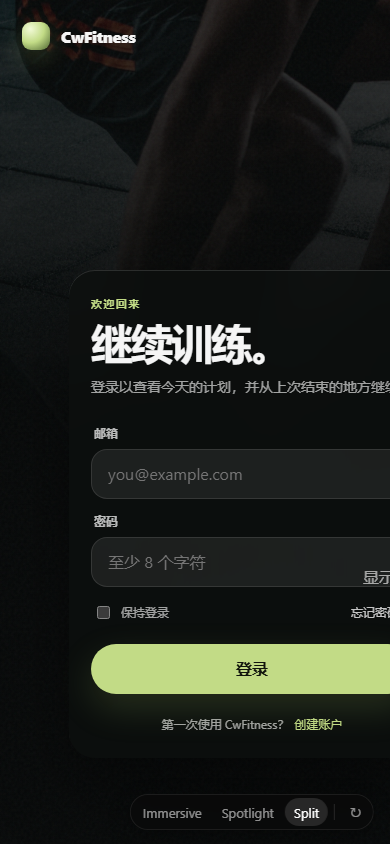
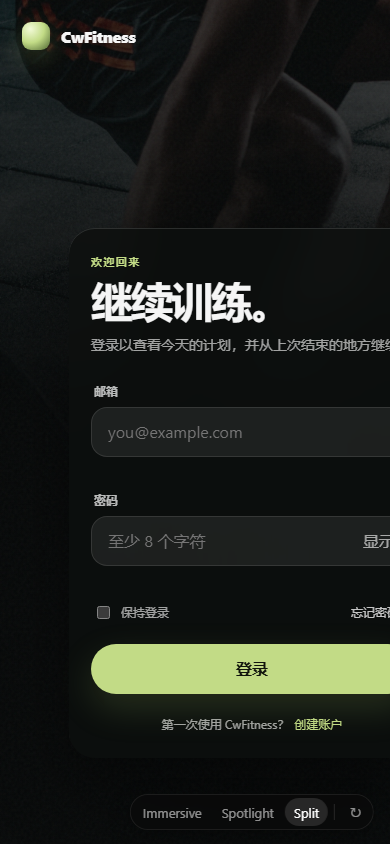
prototype: refine split login layout

diff --git a/prototypes/cwfitness-login/index.html b/prototypes/cwfitness-login/index.html
@@ -15,12 +15,12 @@
     .auth{width:min(420px,calc(100vw - 40px));padding:34px;border-radius:32px;animation:panel-arrive 520ms var(--ease) 80ms both;transform-origin:center}
     @keyframes panel-arrive{from{opacity:0;transform:translateY(16px) scale(.975)}to{opacity:1;transform:none}}
     .eyebrow{margin:0 0 10px;color:var(--accent);font-size:11px;font-weight:800;letter-spacing:.13em;text-transform:uppercase}.auth h1{margin:0;font-size:clamp(34px,4vw,48px);line-height:1;letter-spacing:-.048em}.intro{margin:13px 0 27px;color:var(--muted);font-size:14px;line-height:1.55}
-    .field{display:block;margin-top:14px}.field-label{display:block;margin:0 0 8px 3px;color:rgba(255,255,255,.72);font-size:12px;font-weight:680}.input-wrap{position:relative}.input-wrap input{width:100%;height:50px;border:1px solid rgba(255,255,255,.11);border-radius:16px;padding:0 16px;color:var(--text);background:rgba(255,255,255,.075);outline:none;transition:border-color 160ms ease-out,background-color 160ms ease-out,box-shadow 160ms ease-out}.input-wrap input:hover{background:rgba(255,255,255,.095)}.input-wrap input:focus{border-color:rgba(194,219,134,.62);box-shadow:0 0 0 4px rgba(194,219,134,.1)}.input-wrap input[aria-invalid="true"]{border-color:rgba(233,160,149,.72)}.reveal{position:absolute;right:8px;top:7px;height:36px;padding:0 10px;border:0;border-radius:11px;background:transparent;color:var(--muted);cursor:pointer}.reveal:hover{background:rgba(255,255,255,.08);color:#fff}
+    .field{display:block;margin-top:14px}.field-label{display:block;margin:0 0 8px 3px;color:rgba(255,255,255,.72);font-size:12px;font-weight:680}.input-wrap{position:relative;display:block}.input-wrap input{width:100%;height:50px;border:1px solid rgba(255,255,255,.11);border-radius:16px;padding:0 72px 0 16px;color:var(--text);background:rgba(255,255,255,.075);outline:none;transition:border-color 160ms ease-out,background-color 160ms ease-out,box-shadow 160ms ease-out}.input-wrap input:hover{background:rgba(255,255,255,.095)}.input-wrap input:focus{border-color:rgba(194,219,134,.62);box-shadow:0 0 0 4px rgba(194,219,134,.1)}.input-wrap input[aria-invalid="true"]{border-color:rgba(233,160,149,.72)}.reveal{position:absolute;right:8px;top:50%;display:flex;align-items:center;height:36px;padding:0 10px;border:0;border-radius:11px;background:transparent;color:var(--muted);cursor:pointer;transform:translateY(-50%)}.reveal:hover{background:rgba(255,255,255,.08);color:#fff}
     .error{min-height:18px;margin:7px 3px 0;color:var(--danger);font-size:12px}.row{display:flex;align-items:center;justify-content:space-between;gap:12px;margin:16px 2px 22px}.check{display:flex;align-items:center;gap:8px;color:var(--muted);font-size:12px}.check input{accent-color:var(--accent)}a,.link{padding:0;border:0;background:none;color:rgba(255,255,255,.76);font-size:12px;text-decoration:none;cursor:pointer}.link:hover,a:hover{color:#fff}.submit{position:relative;width:100%;height:50px;border:0;border-radius:999px;color:#11150d;background:var(--accent);font-weight:800;cursor:pointer;box-shadow:0 14px 36px rgba(173,211,107,.17);transition:transform 120ms var(--ease),filter 160ms ease-out}.submit:hover{filter:brightness(1.05)}.submit:active{transform:scale(.98)}.submit[aria-busy="true"]{color:transparent}.submit[aria-busy="true"]::after{content:"";position:absolute;inset:0;margin:auto;width:16px;height:16px;border:2px solid rgba(10,15,7,.3);border-top-color:#111;border-radius:50%;animation:spin .7s linear infinite}@keyframes spin{to{transform:rotate(360deg)}}.foot{margin:22px 0 0;text-align:center;color:var(--muted);font-size:12px}.foot .link{margin-left:5px;color:var(--accent)}
     .toast{position:fixed;top:28px;left:50%;z-index:20;display:flex;align-items:center;gap:10px;padding:12px 16px;border-radius:999px;background:rgba(18,21,19,.9);box-shadow:inset 0 0 0 1px rgba(255,255,255,.12),0 16px 50px rgba(0,0,0,.35);-webkit-backdrop-filter:blur(18px);backdrop-filter:blur(18px);font-size:13px;animation:toast-in 220ms var(--ease) both}@keyframes toast-in{from{opacity:0;transform:translate(-50%,-10px)}to{opacity:1;transform:translate(-50%,0)}}.toast i{width:8px;height:8px;border-radius:50%;background:var(--accent);box-shadow:0 0 14px var(--accent)}
     .immersive{--backdrop:linear-gradient(90deg,rgba(4,6,6,.94) 0%,rgba(4,6,6,.56) 45%,rgba(4,6,6,.1)),url("https://images.unsplash.com/photo-1581009146145-b5ef050c2e1e?auto=format&fit=crop&w=2200&q=86");--veil:linear-gradient(180deg,rgba(4,5,5,.15),rgba(4,5,5,.48))}.immersive .shell{min-height:100vh;display:flex;align-items:center;padding:90px clamp(24px,7vw,110px)}.immersive .auth{margin-top:26px}.immersive .caption{position:absolute;right:clamp(30px,6vw,88px);bottom:78px;width:min(440px,40vw);text-align:right}.caption strong{display:block;font-size:clamp(28px,3.5vw,52px);line-height:1.03;letter-spacing:-.045em}.caption span{display:block;margin-top:12px;color:var(--muted);font-size:13px}
     .spotlight{--backdrop:radial-gradient(circle at 50% 42%,rgba(9,12,11,.05),rgba(5,7,7,.7) 54%,#050707 92%),url("https://images.unsplash.com/photo-1583454110551-21f2fa2afe61?auto=format&fit=crop&w=2200&q=86");--veil:radial-gradient(circle at center,transparent,rgba(3,5,5,.58))}.spotlight .brand{left:50%;transform:translateX(-50%)}.spotlight .shell{min-height:100vh;display:grid;place-items:center;padding:90px 20px}.spotlight .auth{text-align:center;background:rgba(12,15,14,.64)}.spotlight .field,.spotlight .error{text-align:left}.spotlight .auth h1{font-size:42px}.spotlight .intro{max-width:300px;margin-inline:auto}.spotlight .ambient{position:absolute;left:50%;bottom:82px;transform:translateX(-50%);color:rgba(255,255,255,.42);font-size:11px;letter-spacing:.08em;text-transform:uppercase}
-    .split{--backdrop:linear-gradient(90deg,rgba(5,7,7,.18),rgba(5,7,7,.5)),url("https://images.unsplash.com/photo-1517836357463-d25dfeac3438?auto=format&fit=crop&w=2200&q=86");--veil:linear-gradient(90deg,rgba(4,6,6,.18) 0 54%,rgba(7,9,9,.96) 62%)}.split .shell{min-height:100vh;display:grid;grid-template-columns:minmax(0,1.25fr) minmax(460px,.75fr)}.split .story{display:flex;flex-direction:column;justify-content:flex-end;padding:clamp(80px,8vw,124px) clamp(30px,6vw,90px)}.split .story h2{max-width:640px;margin:0;font-size:clamp(48px,6vw,86px);line-height:.94;letter-spacing:-.058em}.split .story p{max-width:490px;margin:18px 0 0;color:var(--muted);line-height:1.55}.split .form-side{display:grid;place-items:center;padding:80px 34px;background:rgba(8,10,10,.56);-webkit-backdrop-filter:blur(24px);backdrop-filter:blur(24px)}.split .auth{width:min(390px,100%);padding:0;background:none;box-shadow:none}.split .auth h1{font-size:42px}
+    .split{--backdrop:linear-gradient(90deg,rgba(5,7,7,.14),rgba(5,7,7,.34)),url("https://images.unsplash.com/photo-1517836357463-d25dfeac3438?auto=format&fit=crop&w=2200&q=86");--veil:linear-gradient(90deg,rgba(4,6,6,.12) 0%,rgba(4,6,6,.2) 38%,rgba(7,9,9,.68) 62%,rgba(7,9,9,.94) 82%,#070909 100%)}.split .shell{min-height:100vh;display:grid;grid-template-columns:minmax(0,1.25fr) minmax(460px,.75fr)}.split .story{display:flex;flex-direction:column;justify-content:flex-end;padding:clamp(80px,8vw,124px) clamp(30px,6vw,90px)}.split .story h2{max-width:640px;margin:0;font-size:clamp(48px,6vw,86px);line-height:.94;letter-spacing:-.058em}.split .story p{max-width:490px;margin:18px 0 0;color:var(--muted);line-height:1.55}.split .form-side{display:grid;place-items:center;padding:80px 34px;background:transparent}.split .auth{width:min(390px,100%);padding:0;background:none;box-shadow:none}.split .auth h1{font-size:42px}
     .proto-picker{position:fixed;bottom:24px;left:50%;transform:translateX(-50%);z-index:2147483647;display:flex;align-items:center;gap:2px;padding:4px;border-radius:999px;background:rgba(10,10,10,.82);-webkit-backdrop-filter:blur(12px) saturate(1.4);backdrop-filter:blur(12px) saturate(1.4);box-shadow:0 0 0 1px rgba(255,255,255,.08) inset,0 8px 24px rgba(0,0,0,.24),0 2px 6px rgba(0,0,0,.12);font-family:-apple-system,BlinkMacSystemFont,"Segoe UI",sans-serif;font-size:13px;line-height:1;-webkit-font-smoothing:antialiased;user-select:none;-webkit-user-select:none}.proto-picker-highlight{position:absolute;top:4px;left:0;height:28px;border-radius:999px;background:rgba(255,255,255,.12);will-change:transform}.proto-picker[data-ready] .proto-picker-highlight{transition:transform 250ms cubic-bezier(.23,1,.32,1),width 250ms cubic-bezier(.23,1,.32,1)}.proto-picker-item{position:relative;display:flex;align-items:center;height:28px;padding:0 12px;border:0;border-radius:999px;background:transparent;color:rgba(255,255,255,.55);font:inherit;cursor:pointer;transition:color 150ms ease-out}.proto-picker-item:hover{color:rgba(255,255,255,.85)}.proto-picker-item:active{transform:scale(.97)}.proto-picker-item:focus-visible{outline:2px solid rgba(255,255,255,.4);outline-offset:2px}.proto-picker-item[data-active]{color:#fff}.proto-picker-divider{width:1px;height:16px;margin:0 4px;background:rgba(255,255,255,.12)}.proto-picker-replay{padding:0 10px;font-size:14px}
     @media(max-width:760px){body{overflow:auto}.brand{top:22px;left:22px}.auth{padding:27px 22px;border-radius:26px}.immersive .shell{align-items:flex-end;padding:82px 20px 86px}.immersive .caption{display:none}.spotlight .shell{padding:82px 20px 90px}.spotlight .ambient{display:none}.split{--veil:linear-gradient(180deg,rgba(4,6,6,.3),rgba(7,9,9,.96) 48%)}.split .shell{display:flex;align-items:flex-end;padding:86px 20px}.split .story{display:none}.split .form-side{width:100%;padding:0;background:none;backdrop-filter:none}.split .auth{padding:26px 22px;border-radius:26px;background:rgba(12,15,14,.74);-webkit-backdrop-filter:blur(24px);backdrop-filter:blur(24px);box-shadow:inset 0 1px rgba(255,255,255,.13),0 30px 80px rgba(0,0,0,.42)}.proto-picker{bottom:14px}.proto-picker-item{padding-inline:9px}}
     @media(prefers-reduced-motion:reduce){*,*::before,*::after{animation-duration:.01ms!important;animation-iteration-count:1!important;scroll-behavior:auto!important}.proto-picker[data-ready] .proto-picker-highlight{transition:none}}

diff --git a/.scratch/login-prototype/spec.md b/.scratch/login-prototype/spec.md
@@ -20,3 +20,7 @@ Status: prototype
 - 支持减少动态、减少透明度和高对比度偏好。
 - 1440×1000 与 390×844 视口均可使用。
 
+## Comments
+
+- 2026-09-10：Split 方案的密码显示按钮需在输入框内垂直居中。
+- 2026-09-10：Split 方案的左侧背景图需自然延伸并渐变到右侧表单区，不能使用生硬的纯深色分割。
